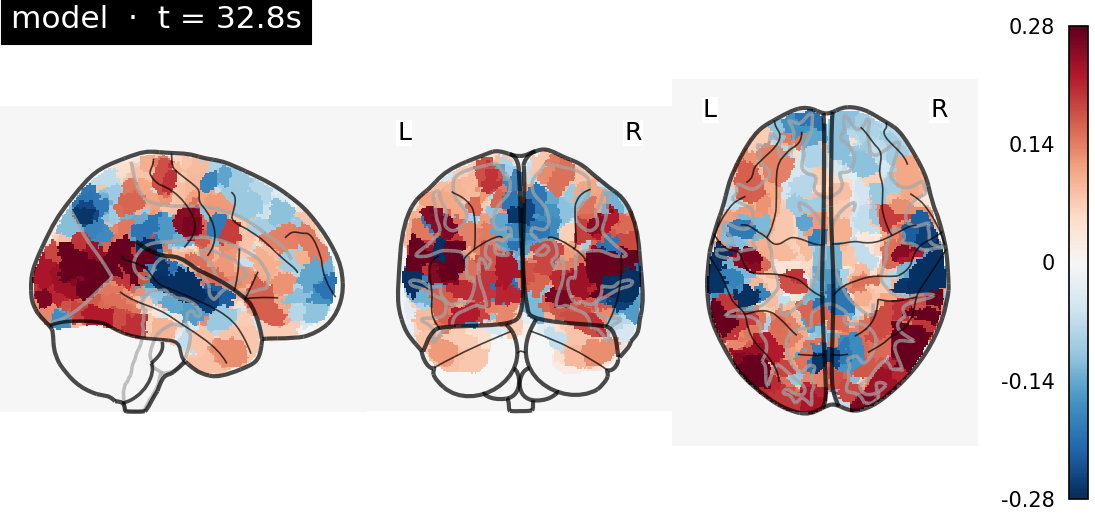
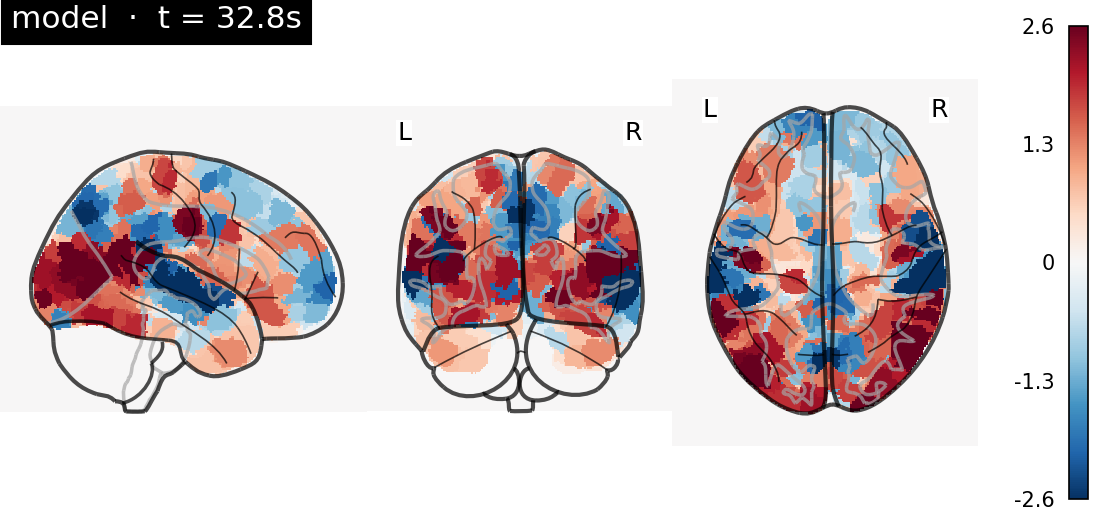
Put both glass brains on one shared standard-deviation color scale and reword the witness chokepoint copy

diff --git a/website/data.js b/website/data.js
@@ -106,10 +106,10 @@ window.BSU_DATA = {
     "model": "assets/movie_brain_real/model/bold_",
     "n": 7,
     "tr_sec": 1.49,
-    "cachebust": "10",
+    "cachebust": "13",
     "transcript": ["Yeah, and it's not that we", "don't like the", "comedian. It's just that", "that's", "not why we bought the", "ticket.", "You see,"],
     "times": [29.8, 31.3, 32.8, 34.3, 35.8, 37.2, 38.7],
-    "note": "Warm (red) = activity above this clip's baseline, cool (blue) = below. <b>Each brain carries its own scale bar</b> — the model's predicted response is regularized, so its magnitudes are smaller than the recorded response; the comparison to make is the <b>spatial pattern</b>, not the absolute color. <b>The two brains share a clock; both lag the movie by the brain's ~4.5 s hemodynamic delay</b> (see below).",
+    "note": "Warm (red) = activity above this clip's baseline, cool (blue) = below. <b>Both brains share one color scale, in standard-deviation units</b> (each stream normalized to its own variance), so the <b>spatial pattern</b> compares directly. In raw units the model's predicted response is ~5× smaller — the ridge prediction is regularized — so the honest magnitude gap lives in the held-out correlation (r ≈ 0.25), not in the color. <b>The two brains also share a clock; both lag the movie by the brain's ~4.5 s hemodynamic delay</b> (see below).",
     "reading": "**A real movie clip in; one subject's recorded brain response and the model's held-out prediction out, side by side, unrolling in time.** This is the temporal-multimodal pipeline end to end on real data: each moment of video → **V-JEPA-2** features (the video backbone family that won Algonauts 2025), sound → Wav2Vec2, dialogue → MiniLM; a banded-ridge encoding model (fit on the *other* Friends episodes) shifts them by the brain's hemodynamic lag and predicts subject 1's response in all 1000 cortical parcels per scan; and the new `glass_brain_movie` Brain-Score tool renders each scan. **Do the model and the brain need lining up in time? No — they already share a clock.** The recorded BOLD carries the ~4.5 s hemodynamic lag physiologically, and the encoding model builds that *same* lag into its design matrix, so they are directly comparable at each scan. Both lag the *movie* by that delay — so each brain map is the response to what was on screen a few seconds earlier.",
     "caption": "Real human vs. model. The clip is one <b>held-out</b> Friends segment — the encoding model was fit on the other segments, so the bottom brain is a genuine prediction, never trained on this clip; the top brain is subject 1's recorded fMRI for the exact same scans. <b>Neither is time-shifted relative to the other</b> (both already include the hemodynamic lag); to see the brain respond to the precise frame on screen you would advance the movie ~3 scans (~4.5 s) ahead of the brains. The Friends footage is from the Algonauts 2025 / Courtois NeuroMod dataset — internal research demo only, not for redistribution. (TR = 1.49 s; 7 scans ≈ 10.4 s.)"
   },
@@ -232,7 +232,7 @@ window.BSU_DATA = {
   ],
   "witness": {
     "title": "Watch Brain-Score evaluate a model",
-    "subtitle": "Every capability funnels through one method — process(input_event). Instrument that single chokepoint once and you can witness ANY benchmark run: what the model saw (rendered per modality), what it did (activations, probabilities, a generated answer, an action), and in what mode. These are real recorded process() calls — no benchmark-specific code.",
+    "subtitle": "Every capability funnels through one method — process(input_event). Because every benchmark passes through that one method, watching it is enough to see ANY of them run: what the model saw (rendered per modality), what it did (activations, probabilities, a generated answer, an action), and in what mode. These are real recorded process() calls — no benchmark-specific code.",
     "modes": ["neural", "readout", "generation", "action", "state_change"],
     "panels": [
       {"img": "assets/witness_game_0.png", "caption": "Embodied · process(EnvironmentStep): the policy sees the rendered frame and the Witness logs what it DID — action → down. Recorded straight off the grid-game rollout, no benchmark-specific code."},

diff --git a/website/index.html b/website/index.html
@@ -325,7 +325,7 @@
   <div class="muted small" id="provenance"></div>
 </footer>
 
-<script src="data.js?v=10"></script>
+<script src="data.js?v=13"></script>
 <script src="app.js?v=10"></script>
 <script src="model_moves.js?v=2"></script>
 <script src="game.js?v=2"></script>

diff --git a/scripts/algonauts2025/predict_clip_bold.py b/scripts/algonauts2025/predict_clip_bold.py
@@ -55,6 +55,13 @@ def main():
     ap.add_argument('--video_features', default=f'{BR}/video_features_vjepa2.npz')
     ap.add_argument('--renderer', default='glass',
                     choices=['glass', 'quickbrain', 'surface'])
+    ap.add_argument('--per_stream_scale', action='store_true',
+                    help='give human and model each its own color scale '
+                         '(default: one shared scale across both)')
+    ap.add_argument('--no_standardize', action='store_true',
+                    help='shared scale in RAW BOLD units (model renders faint). '
+                         'Default: z-score each stream to its own variance so the '
+                         'shared scale is in SD units and both patterns stay vivid.')
     ap.add_argument('--out', default='/tmp/clipdemo')
     args = ap.parse_args()
     os.makedirs(args.out, exist_ok=True)
@@ -169,20 +176,46 @@ def main():
         log(f'window pred-vs-recorded median per-parcel r = {np.nanmedian(pc):.3f}')
 
     times = [round(float(t * args.tr_sec), 1) for t in tw[sel]]
-    log(f'render human + model ({args.renderer})...')
+    pred_r, gt_r = pred, gt
+    if args.per_stream_scale:
+        shared, unit = {}, 'per-stream'
+    else:
+        # Default: standardize each stream to its OWN variance, then a single
+        # shared symmetric scale in SD units. This is a genuine common scale
+        # (identical colorbar for both) that keeps BOTH spatial patterns vivid —
+        # the model's ridge predictions are ~5x smaller in raw units, so a shared
+        # RAW scale washes the model out. The magnitude gap stays honest via the
+        # reported r and the note; the maps compare PATTERN. --no_standardize
+        # falls back to a shared RAW scale.
+        if not args.no_standardize:
+            def _z(a):
+                f = a[np.isfinite(a)]
+                m = float(np.nanmean(f)) if f.size else 0.0
+                s = float(np.nanstd(f)) if f.size else 1.0
+                return (a - m) / (s if s > 1e-8 else 1.0)
+            pred_r, gt_r = _z(pred), _z(gt)
+            unit = 'SD'
+        else:
+            unit = 'raw'
+        both = np.concatenate([pred_r, gt_r], axis=0)
+        finite = both[np.isfinite(both)]
+        M = float(np.nanpercentile(np.abs(finite), 98)) if finite.size else 1.0
+        shared = dict(vmin=-M, vmax=M)
+        log(f'  shared {unit} scale: ±{M:.3f}')
+    log(f'render human + model ({args.renderer}, scale={unit})...')
     if args.renderer == 'glass':
         from brainscore.visualization import glass_brain_movie as render
         kw = dict(cmap='RdBu_r', display_mode='ortho', symmetric=True,
-                  share_scale=True, n_parcels=1000)
+                  share_scale=True, n_parcels=1000, **shared)
     elif args.renderer == 'quickbrain':
         from brainscore.visualization import quickbrain_outline_movie as render
-        kw = dict(cmap='RdBu_r', symmetric=True, share_scale=True, n_parcels=1000)
+        kw = dict(cmap='RdBu_r', symmetric=True, share_scale=True, n_parcels=1000, **shared)
     else:
         from brainscore.visualization import cortical_surface_movie as render
-        kw = dict(cmap='turbo', n_parcels=1000, hemi='left', view='lateral')
-    render(pred, times=times, out_dir=f'{args.out}/model', prefix='bold',
+        kw = dict(cmap='turbo', n_parcels=1000, hemi='left', view='lateral', **shared)
+    render(pred_r, times=times, out_dir=f'{args.out}/model', prefix='bold',
            title_fmt='model  ·  t = {t:.1f}s', **kw)
-    render(gt, times=times, out_dir=f'{args.out}/human', prefix='bold',
+    render(gt_r, times=times, out_dir=f'{args.out}/human', prefix='bold',
            title_fmt='human  ·  t = {t:.1f}s', **kw)
 
     transcript = None
